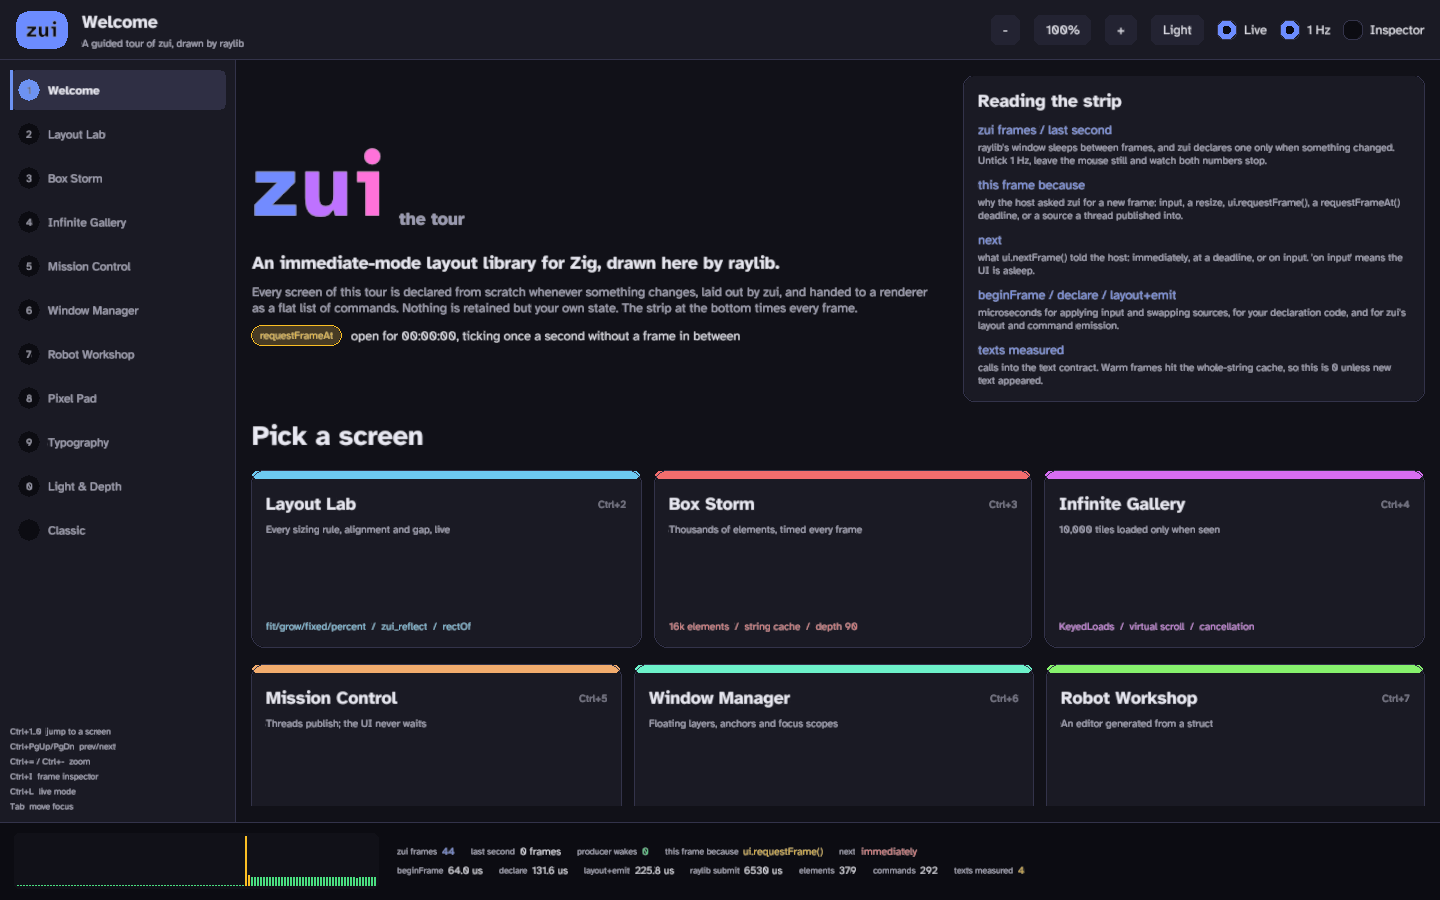
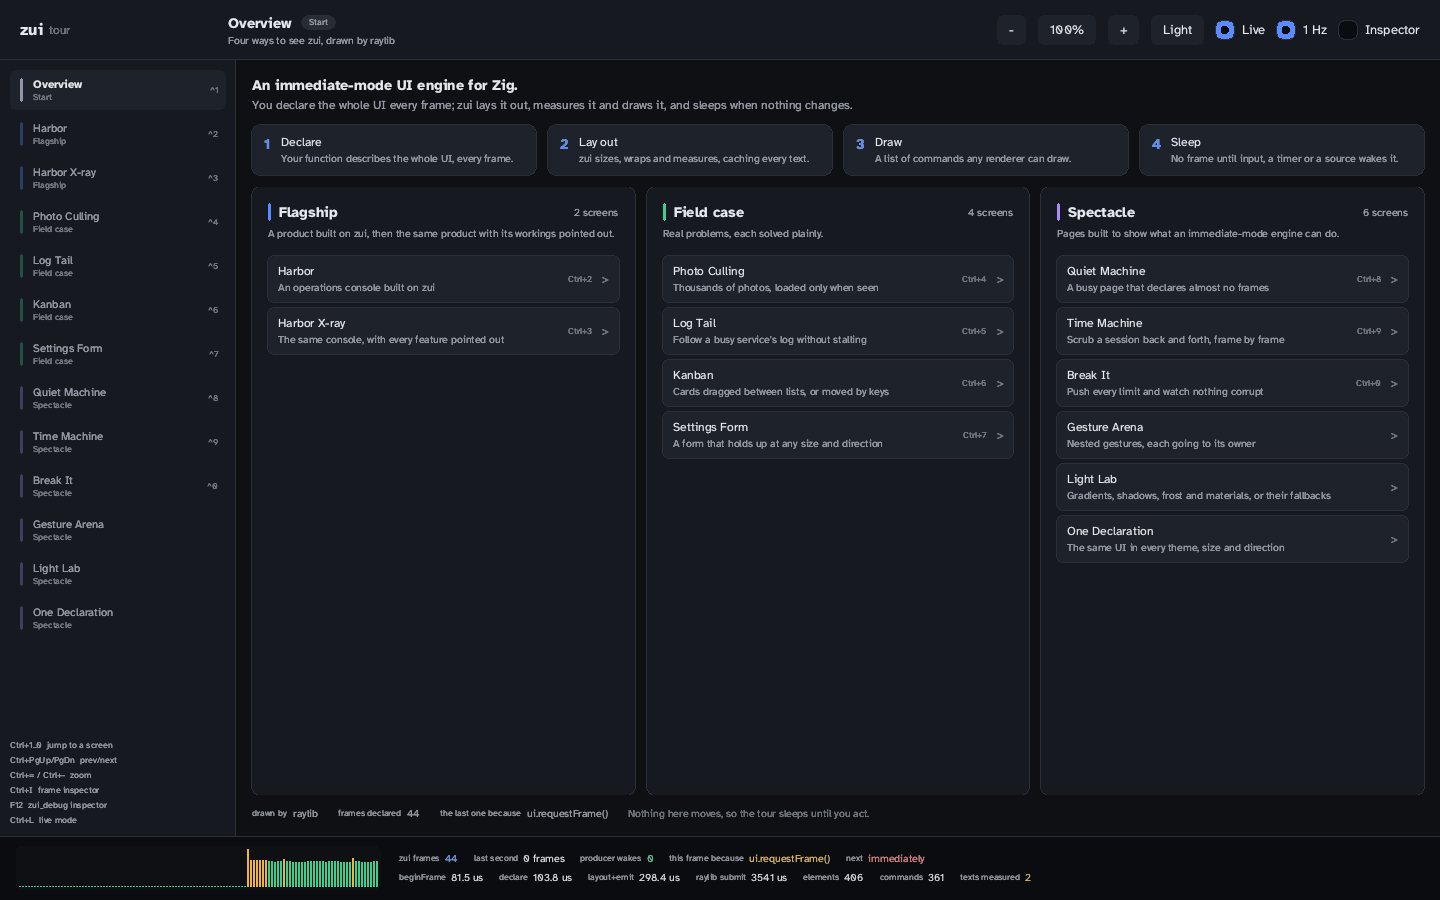
Document the new tour
The tour's README lists its fourteen screens by lane with what each
shows; the root README, ARCHITECTURE.md and the renderers' and hosts'
READMEs stop naming the old screens, and their pictures show the
overview and Harbor. ARCHITECTURE.md §7 gains two differences the tour's
spectacles found in core: the emitter drops a clip's end past
max_render_commands, and a pinch on an element with a custom recognizer
never zooms. roadmap/11-polish.md records the work as
11-polish:24-the-tour.

diff --git a/apps/tour/README.md b/apps/tour/README.md
@@ -1,7 +1,9 @@
 # The tour
 
-`zui_tour` is a tour of what zui does today, one screen per feature, for
-any host, renderer and font system:
+`zui_tour` shows what zui does today, four ways, for any host, renderer
+and font system: a product built on it, the same product with each
+feature pointed out, real problems solved plainly, and pages built to
+impress:
 
 ```zig
 const Tour = zui_tour.App(.{ .Host = zui_raylib.Host, .Renderer = zui_raylib.Renderer, .Text = zui_truetype.Text, .renderer_name = "raylib" });
@@ -37,28 +39,31 @@ The tour sets the record's zoom and the environment changes it makes up,
 hands each frame to `zui_debug` while its panel is open, and times each
 step for the strip.
 
-| Screen | What it shows |
-|---|---|
-| Welcome | `requestFrameAt` ticking a clock once a second with no frames between; floating hints; focusable cards |
-| Layout Lab | every sizing rule, alignment and gap on a live container; the knobs generated by `zui_reflect`; sizes read back with `rectOf`; the same layout printed as Zig |
-| Box Storm | up to 14,000 animated boxes, a 90-deep spiral of `percent` containers, and text walls that either hit the whole-string cache or miss it every frame |
-| Infinite Gallery | 10,000 tiles in a virtualized scroll container, loaded through `KeyedLoads` on other threads with progress, failures and cancellation; a hand-made scrollbar |
-| Mission Control | `Latest` telemetry, a `Stream` log that a burst overflows into the diagnostics, a `Task` rocket launch with abort; producers run only while `framesSinceRead` says someone is watching |
-| Window Manager | draggable floating windows with z order, a taskbar with tooltips, `attach_to = .element` with every anchor pair, a modal dialog in a focus scope |
-| Robot Workshop | a robot editor generated by `zui_reflect` from nested structs, and environment changes (theme, contrast, reduced motion, text scale) as if the OS sent them |
-| Pixel Pad | painting through `pointerLocal` on one element, tools on keys, undo with chords, and a live view of `keyEvents` and `typedText` |
-| Typography | three TrueType fonts, size, letter spacing, line height, wrap and alignment, a column to drag-resize, and a marquee looped with `measureText` and `setScrollOffset` |
-| Light & Depth | `zui.Effects` on sliders with their declaration printed as Zig. A renderer that does not draw `gradient` or `shadow` sees them lowered: a gradient to its middle color, a shadow to nothing. Its frosted pane needs `.backdrop_blur` |
-| Transforms | offered only to a renderer that draws `.transform`. `zui.Transform`: a card turned, moved and scaled about its origin from sliders, its declaration printed as Zig and its button pressed where it is drawn; turned tiles that hover and press where drawn; clock hands turned about their foot; the tour's three fonts, turned |
-| Materials | offered only to a renderer that draws `.material`, such as `zui_sokol.Material`: a card drawn by the renderer's own shader, its pattern, colors, wave and phase on sliders and its declaration printed as Zig; every pattern side by side; the material beside its fallback background, as a renderer without `.material` draws it; a shadow beneath one and a border and button over it |
-| Classic | `zui_showcase`, in [apps/showcase/](../showcase/), the UI every zui renderer's `showcase` target draws, so the renderers can be compared |
+Each screen belongs to a lane, which the rail marks beside its title.
+
+| Screen | Lane | What it shows |
+|---|---|---|
+| Overview | Start | zui in one sentence, how a frame goes (declare, lay out, draw, sleep), and every screen this renderer is offered, by lane, opened by click or key; it asks for no frame, so the tour idles here |
+| Harbor | Flagship | an operations console for 5,000 services: KPI tiles from a `Latest` source with sparklines, a sortable table that declares only the rows in view, a details panel, an events feed from a `Stream`, a deploy dialog in a focus scope, tooltips anchored to their element, toasts that leave with an exit animation, and semantics on rows, tiles and the dialog; its producers run only while it is read |
+| Harbor X-ray | Flagship | the same console from the same state, with 13 numbered nodes attached to its real elements. Each opens a card saying what the feature is, why it matters, and live proof from this frame (rows declared, values published and skipped, `framesSinceRead`, texts measured, why the frame was declared, what the renderer lowered), with buttons that try it: a burst of events, right to left, 200% text, high contrast. It also outlines regions and shows a timeline of why each frame was declared |
+| Photo Culling | Field case | 5,000 photos in a virtual grid, each decoded through `KeyedLoads` on other threads with progress and cancelled when scrolled away; pick, reject and undo by key, drag onto bins, a loupe, and the decoder's counts |
+| Log Tail | Field case | a busy service's log through a `Stream`, with its rate through a `Latest` 30 times a second: a 4,096-line ring in a virtual list, level chips, a filter, follow-tail that holds when scrolled up, and a 10,000-line burst that shows what the stream refused |
+| Kanban | Field case | four lists of cards dragged within and between lists with a drop indicator and auto-scroll, moved by Ctrl+arrows, deleted with an exit animation, and an actions menu in a focus scope |
+| Settings Form | Field case | an account form with validation, a sensible Tab order and Save only when valid, and switches that change the real environment (right to left, high contrast, text at 150% and 200%) so it is seen to hold up |
+| Quiet Machine | Spectacle | a busy page (a clock, a sensor, a countdown, a ticker) that declares a frame only when something changes, counted against a 60 Hz loop, with why each frame was declared and what `nextFrame` says; a toggle compares it with a game loop |
+| Time Machine | Spectacle | a small deterministic world of flung balls, a pure function of its input log: a scrubber replays it to any step, interacting in the past branches, and a checksum proves the replay matches the live run |
+| Break It | Spectacle | sliders that push elements, depth, text bytes, render commands, effects and state slots past their limits, with the frame's `Diagnostics`: what was kept and dropped, and nothing corrupted |
+| Gesture Arena | Spectacle | a map that pans and pinch-zooms, holding a list that holds a carousel with momentum, and a lasso that claims presses; a log says which element took each gesture and why |
+| Light Lab | Spectacle | gradients mixed in OKLab, shadows and glow, frost over a moving scene and the renderer's materials, each beside how a renderer without it lowers it, with its declaration printed as Zig. Frost needs `.backdrop_blur` and materials a `MaterialHandle` of patterns |
+| One Declaration | Spectacle | one function's invoice in six views (dark, light, high contrast, 150% text, right to left, compact) sharing one state, and buttons that change the real environment |
+| Clickable Chaos | Spectacle | offered only to a renderer that draws `.transform`: 240 cards turned and scaled in a wave, each hit where it is drawn |
 
 Ctrl+1 to Ctrl+0 jump to the first ten screens, Ctrl+PgDn and Ctrl+PgUp
 to the next and previous, Ctrl+= and Ctrl+- zoom (through
 `FrameParams.zoom`), Ctrl+L declares a frame at every refresh to watch the
 costs live, and Tab moves focus.
 
-![The gallery loading tiles on other threads](../../renderers/raylib/docs/gallery.png)
+![Harbor, the flagship console](../../renderers/raylib/docs/harbor.png)
 
 ## Development
 

diff --git a/ARCHITECTURE.md b/ARCHITECTURE.md
@@ -314,6 +314,8 @@ roadmap item named:
 | no host gives a `.web` surface in the browser: `zui_web.HostOn(Platform)` holds the web host's logic, checked on a scripted platform, but no platform over the browser's imports runs it; `zui_webgl.Renderer` draws on the canvases the client's page names, and the tour runs in a worker on a stepped host whose frames reach the page over `zui_wire` | a web host whose platform pushes its loop, drawing on a `.web` canvas (SPEC.md §16.3, §16.4) | `hosts/web/` | `10-reach:02-web-host` |
 | `zui_debug`'s inspector runs in the application's process; a frame on the wire carries no elements for it | over the wire, the inspector runs in another process (SPEC.md §19.7) | `core/zui_debug/`, `core/zui_wire/` | not yet queued |
 | a frame on the wire carries no chrome regions, and the wire host declares no `zuiChromeRegions`, so a remote window keeps the system's title bar | chrome over the wire | `core/zui_wire/` | not yet queued |
+| past `max_render_commands`, the emitter drops a `clip_end` whose `clip_begin` it kept, so the frame's sweep panics on `unbalanced_clip` (the tour's Break It caps its command load below the limit until this is fixed) | every limit keeps what fits and never corrupts: room is kept for the clip ends still open (SPEC.md §17.2) | `core/src/emission.zig` | not yet queued |
+| a pinch that begins on an element declaring a `.custom` recognizer never zooms: `startZoom` runs only on `pointer_down`, and a declined pointer only pans | a declined pointer is arbitrated over all its motion since the press (SPEC.md §11.4) | `core/src/context.zig` | not yet queued |
 | the sokol renderer attaches and detaches only native windows, `.win32` with Direct3D 11 and `.wayland`, so a lost `.library` surface cannot be given back: `zuiAttachSurface` returns `UnsupportedSurface`, and `resumeSurfaces` with it | a renderer that a platform may take surfaces from keeps each surface's resources in `zuiAttachSurface` and `zuiDetachSurface` | `renderers/sokol/` | the first host that loses a surface (Android) |
 | `zui_host`'s Linux host speaks Wayland only, reports no low memory, IME composition or semantics, and leaves the title bar to the application only where the compositor leaves decorations to the client (Hyprland does not); its environment comes from the desktop portal and UPower over D-Bus, and stays at the defaults without them; its services have no menus, which Wayland lacks | a Linux host on Wayland and X11 with every report the Windows host makes, and a system material where the compositor offers one | `hosts/native/` | `10-reach:01-linux-host` |
 
@@ -333,8 +335,8 @@ zui is one repository of packages, each with its own `build.zig` and
 | `text/glyphs/` | `zui_glyphs` | what font systems and renderers share: the codepoints of a run, the type-erased `Fonts` a renderer draws through, the `Placement` a renderer declares, the one `layOut` that places a run's glyphs for measuring and for drawing, the pixel grid's glyph quads, the `Atlas` that rasterized glyphs are drawn from, and the font systems' conformance suite; no third-party library, so the root re-exports it |
 | `text/truetype/` | `zui_truetype` | `Text`, the text contract on stb_truetype, its fonts added from embedded bytes or memory reserved for fonts that arrive at run time, Atkinson Hyperlegible Regular as font 0 when none is added, and `zuiFingerprint` over its fonts and placement; stb, fetched lazily, so users reach it through `zui.builder.dependency("zui_truetype", .{})` |
 | `text/fonts/` | `zui_fonts` | Atkinson Hyperlegible Regular and Bold and Liberation Mono, each a `pub const` of its bytes, with their licences; no third-party library, so the root re-exports it |
-| `apps/tour/` | `zui_tour` | the tour, `App(.{ .Host, .Renderer, .Text, .renderer_name })` for `zui_app` to run, which gives the font system the three `zui_fonts` typefaces, lays text out for the placement the renderer declares, and offers a screen only when the renderer draws its commands, and acts on its flags, its idle measurement among them; `Kit` and `Tour`, for a driver that begins and ends the frames itself; its headless test on renderers that draw every optional command and none, in pixels and in cells, which alone fetches stb, for `zui_truetype`; no third-party library in the module, so the root re-exports it |
-| `apps/showcase/` | `zui_showcase` | the small application every renderer draws, the tour's Classic screen, and `App(.{ .Host, .Renderer, .Text, .title })` for `zui_app` to run, which keeps its controls on whole cells where the renderer draws cells; no third-party library, so the root re-exports it |
+| `apps/tour/` | `zui_tour` | the tour, zui shown four ways (a landing page, Harbor and its X-ray, field cases and spectacles), `App(.{ .Host, .Renderer, .Text, .renderer_name })` for `zui_app` to run, which gives the font system the three `zui_fonts` typefaces, lays text out for the placement the renderer declares, and offers a screen only when the renderer draws its commands, and acts on its flags, its idle measurement among them; `Kit` and `Tour`, for a driver that begins and ends the frames itself; its headless test on renderers that draw every optional command and none, in pixels and in cells, which alone fetches stb, for `zui_truetype`; no third-party library in the module, so the root re-exports it |
+| `apps/showcase/` | `zui_showcase` | the small application every renderer draws, and `App(.{ .Host, .Renderer, .Text, .title })` for `zui_app` to run, which keeps its controls on whole cells where the renderer draws cells; no third-party library, so the root re-exports it |
 | `renderers/raylib/` | `zui_raylib` | the raylib renderer and the raylib adapter host, their conformance harness, and the `tour` and `showcase` targets on them, in `zui_truetype`'s text; raylib, fetched lazily |
 | `renderers/sokol/` | `zui_sokol` | the sokol renderer, on sokol_gfx through sokol-zig, its conformance harness and its shaders; sokol, fetched lazily. Its targets are `hosts/native/`'s |
 | `renderers/terminal/` | `zui_terminal` | the terminal renderer, the terminal host, its input decoder and raw-mode terminal, its conformance harness, and the `tour` and `showcase` targets on them, in `zui_truetype`'s text laid out in cells; stb, fetched lazily for the targets alone |
@@ -419,8 +421,8 @@ zui's host contract, handing the `Renderer` its stdout writer in each
 the cell covering it, so it passes the renderer suite at a tolerance of
 0, and its `test` step runs the suite too. Its targets are
 `examples/tour.zig`, the whole tour, less the screens whose commands a
-terminal does not draw, and `examples/showcase.zig`, the same UI as the
-tour's Classic screen, both in `zui_truetype`'s text laid out in cells;
+terminal does not draw, and `examples/showcase.zig`, the UI every
+renderer's showcase target draws, both in `zui_truetype`'s text laid out in cells;
 each takes `--dump`, which draws frames into cells without a terminal
 and prints their glyphs (`examples/dump.zig`).
 

diff --git a/roadmap/11-polish.md b/roadmap/11-polish.md
@@ -36,6 +36,7 @@ is given its Grounding, Plan and Done when as it is taken.
 | `11-polish:21-permutations` Every permutation of a component | not started |
 | `11-polish:22-appearance-review` The appearance review | not started |
 | `11-polish:23-design-workbench` The design workbench | not started |
+| `11-polish:24-the-tour` The tour, redone | done |
 
 ### The design system
 
@@ -986,3 +987,35 @@ check shows its badge in the same frame.
 **Waits for** `11-polish:22-appearance-review`.
 
 **Spec.** §18.8.
+
+## 11-polish:24-the-tour — The tour, redone
+
+Taken out of the queue at the owner's request.
+
+**Grounding.** The tour had twelve screens, one per feature
+(`apps/tour/src/screens/` at f6051f4), which the owner found too wacky
+to show zui in its best light, and a Classic screen that declared
+`zui_showcase`.
+
+**Plan.** Replace every screen with four lanes: an overview; Harbor, an
+operations console that uses every feature with restraint, and its
+X-ray, the same console with nodes that explain each feature with live
+proof; field cases, each a real problem solved plainly; and spectacles,
+each one claim proved live. Use what zui does today, and leave what it
+cannot do yet to later items.
+
+**Done when:** every screen declares within its limits and fits the
+default window in pixels and in cells; the tour's cycle, the terminal's
+`--every-screen` dump, `test-demo`, `test-draw`, `test-input` and
+`test-site` pass; and the tour idles on its first screen.
+
+**Spec.** §6.6, §6.8, §8, §11, §13.5, §14, §17.2, §18, §19.
+
+**Status.** Done: fourteen screens in four lanes, described in
+`apps/tour/README.md`. On raylib the overview idles at 0.055% of one
+core with 1 frame in 10 s, and on the Linux host at 0.046%. Not shown
+yet: HDR white in the Light Lab, since the tour's `Ui` declares
+`zui.Color`; wheel zoom in the Gesture Arena, since `Manipulation` does
+not say a wheel moved it; custom semantic actions on Kanban's cards,
+which zui lacks. Break It keeps its render-command load below the limit
+until the emitter keeps room for open clips (ARCHITECTURE.md §7).

diff --git a/renderers/raylib/README.md b/renderers/raylib/README.md
@@ -8,7 +8,7 @@ release whose build supports Zig 0.16, which is fetched the first time it
 is built; on Linux, raylib's X11 and OpenGL development packages:
 `libx11-dev libxrandr-dev libxinerama-dev libxcursor-dev libxi-dev libgl1-mesa-dev`.
 
-![The tour's welcome screen](docs/demo.png)
+![The tour's overview](docs/demo.png)
 
 ```zig
 // build.zig, with `zui` the dependency from the main README
@@ -151,15 +151,16 @@ const Tour = zui_tour.App(.{ .Host = zui_raylib.Host, .Renderer = zui_raylib.Ren
 
 and adds what raylib's window gives: screenshots drawn offscreen, the
 startup measurement, and the run's report in `zui_debug`'s panel. The
-Light & Depth screen's gradients and shadows are lowered here, and the
-Transforms and Materials screens are not offered. The `zui_debug` panel's
+Light Lab's gradients, shadows, frost and materials are lowered here, and
+Clickable Chaos, which needs transforms, is not offered. The `zui_debug` panel's
 theme does not reload from a file, since this host has no file watch.
 `examples/showcase.zig` runs `zui_showcase` the same way.
 
 `--measure-idle` runs the tour in a hidden window and reads its own CPU
 time at two frames it asks for with `requestFrameAt`, 10 seconds apart,
 after 5 seconds of warm-up, with the strip's once-a-second refresh off.
-The Welcome screen's clock still ticks, so it declares about 10 frames.
+The overview asks for no frame, so it declares 1, and on Linux it used
+0.055% of one core over 10 s.
 `--measure-startup` reports how long after the OS created the process the
 first frame was presented (Windows only: it reads the process's creation
 time).

diff --git a/hosts/native/README.md b/hosts/native/README.md
@@ -564,11 +564,11 @@ zig build tour -- --screenshot tour.bmp      # save the window after a few frame
 zig build showcase -- --frames 60            # draw the showcase for 60 frames, then quit
 ```
 
-Idle, it uses no CPU: on an i9-10900K in ReleaseSafe, the Layout Lab
-screen used 0.0 ms of CPU over 10 s with no frames and no wakes in three
-runs of four (Windows counts CPU time in 15.6 ms ticks). On Linux, under
-Hyprland with an NVIDIA RTX 2060 SUPER, it used 1.2 to 4.4 ms over 10 s,
-with 0 or 1 frames and no wakes, in five runs of six. `--screenshot` saves
+Idle, it uses no CPU: on an i9-10900K in ReleaseSafe, the old tour's
+Layout Lab screen used 0.0 ms of CPU over 10 s with no frames and no
+wakes in three runs of four (Windows counts CPU time in 15.6 ms ticks).
+On Linux, under Hyprland with an NVIDIA RTX 2060 SUPER, the overview used
+4.6 ms over 10 s in Debug, with 1 frame and no wakes. `--screenshot` saves
 the window on Windows only so far. With `--frames`, it prints the frames
 drawn, the sokol renderer's layer and glyph atlas overflows, and whether
 every frame's diagnostics were clean (`diagnostics ok: true`), which CI

diff --git a/README.md b/README.md
@@ -177,7 +177,7 @@ it draws or reports, its limits, and its build steps.
 | `zui_webgl` | [renderers/webgl/](renderers/webgl/README.md) | the browser's drawing of a frame through WebGL 2 |
 | `zui_host` | [hosts/native/](hosts/native/README.md) | the native hosts, for Windows and for Linux on Wayland |
 | `zui_web` | [hosts/web/](hosts/web/README.md) | the browser's client, the tour in a Web Worker, and the published page |
-| `zui_tour` | [apps/tour/](apps/tour/README.md) | every feature of zui on a screen of its own, for any host and renderer |
+| `zui_tour` | [apps/tour/](apps/tour/README.md) | zui shown four ways: an operations console, the same console with its features pointed out, field cases and spectacles, for any host and renderer |
 | `zui_showcase` | [apps/showcase/](apps/showcase/) | one small application every renderer draws, so their frames can be compared |
 | `zui_themes` | [themes/](themes/) | skins in the design languages of Windows, macOS, GNOME and KDE; a skeleton today |
 | — | [examples/](examples/) | a template project and samples; a skeleton today |

diff --git a/hosts/web/README.md b/hosts/web/README.md
@@ -159,9 +159,9 @@ tasks run only while a frame waits for them. The page then asks for an
 animation frame at once, sets a timer for the deadline, or waits for the
 canvas's input, a resize or a change of `devicePixelRatio`, and a step
 that finds no frame due declares none. Idle, the tour draws only its
-heartbeat, once a second; the Box Storm, Typography, Light and Depth,
-Transforms and Materials screens animate, and ask for every frame, as
-they do natively. GitHub Pages cannot send the headers that make a page
+heartbeat, once a second; the spectacles that move, such as the Light
+Lab and Clickable Chaos, ask for every frame while they move, as they do
+natively. GitHub Pages cannot send the headers that make a page
 cross-origin isolated, so the page registers a service worker of its own,
 `web/isolation_service_worker.js`, which serves the page and everything
 it loads again with them, and reloads once. `zig build site` writes the

diff --git a/renderers/sokol/README.md b/renderers/sokol/README.md
@@ -205,6 +205,6 @@ Its links on Linux print `warning(link): unexpected LLD stderr` and a
 ## The tour on sokol
 
 [The tour](../../apps/tour/README.md) on the sokol renderer draws every
-screen: Light & Depth's gradients, shadows and frosted pane, and the
-Transforms and Materials screens, which are offered only to a renderer
-that draws what they need.
+screen: the Light Lab's gradients, shadows, frosted pane and materials,
+and Clickable Chaos, which is offered only to a renderer that draws
+transforms.
